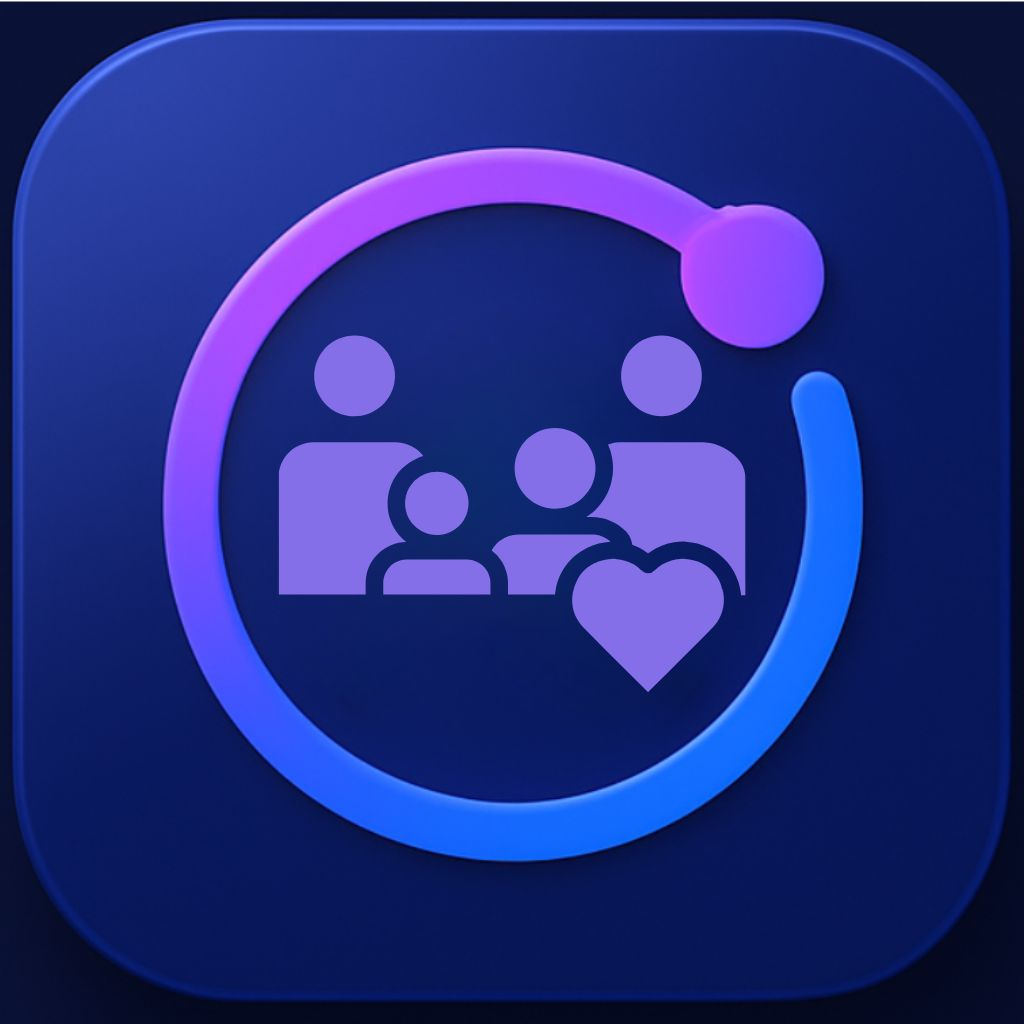
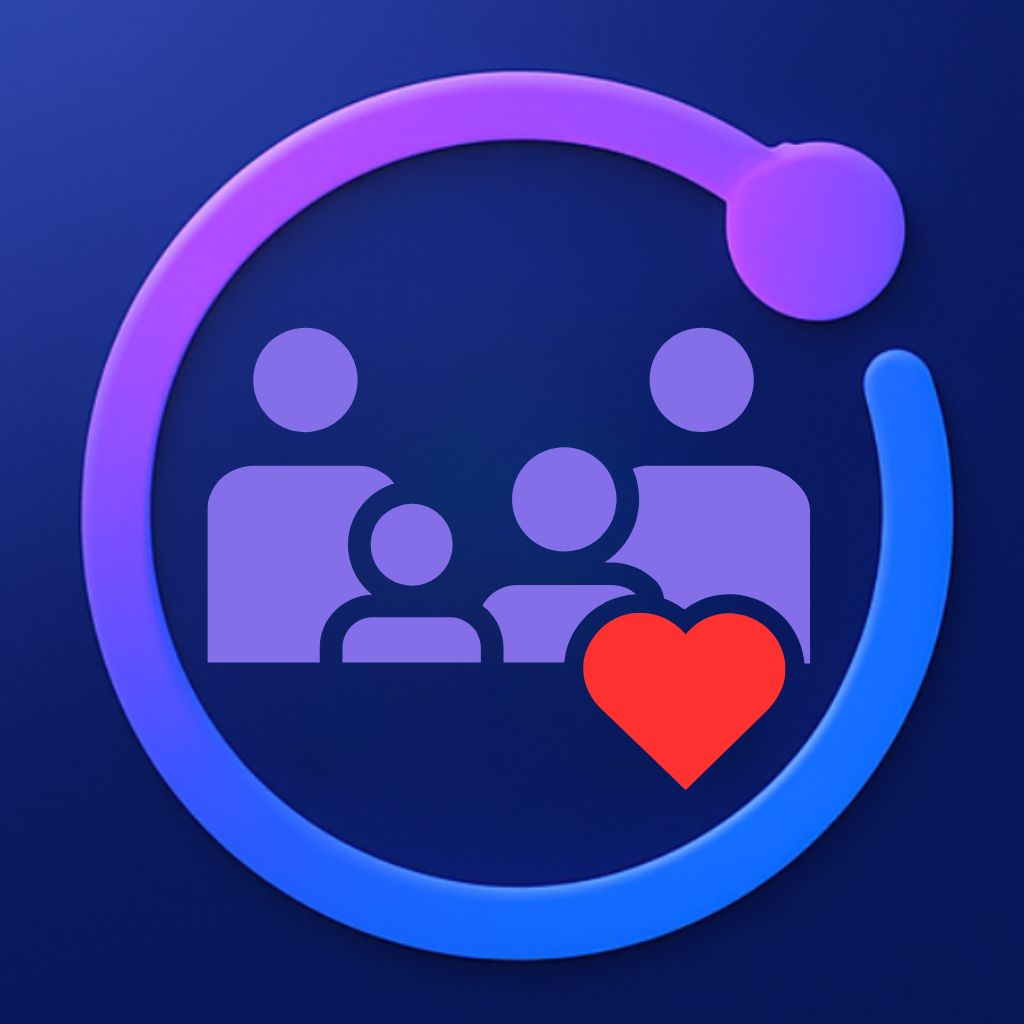
Add files via upload

diff --git a/app.html b/app.html
@@ -37,7 +37,7 @@
 
     <script>
         // Disponibilizar para o React usar no logo interno
-        window.APP_ICON_URL = "https://i.ibb.co/YJv8ZDn/Icone-familiaconnect.jpg"; 
+        window.APP_ICON_URL = "https://i.ibb.co/Z1hsB0YY/Icone-familiaconnect.jpg"; 
     </script>
 
     <style>

diff --git a/index.html b/index.html
@@ -38,7 +38,7 @@
 
     <script>
         // Disponibilizar para o React usar no logo
-        window.APP_ICON_URL = "https://i.ibb.co/YJv8ZDn/Icone-familiaconnect.jpg"; 
+        window.APP_ICON_URL = "https://i.ibb.co/Z1hsB0YY/Icone-familiaconnect.jpg"; 
     </script>
 
     <style>
